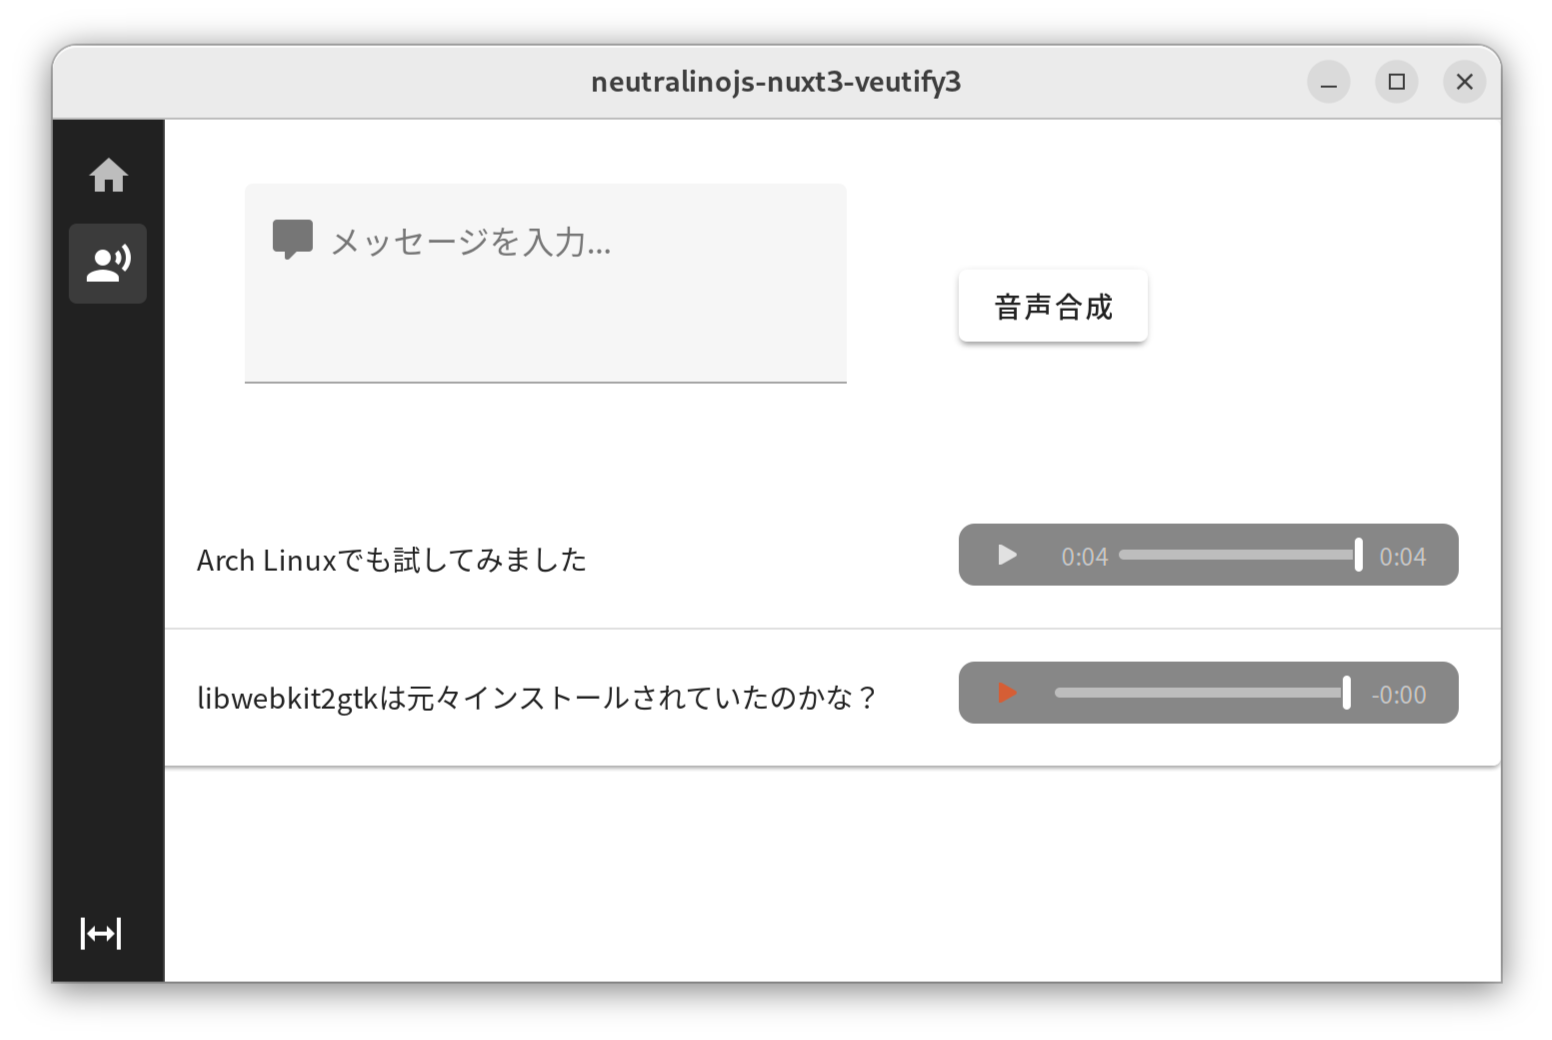
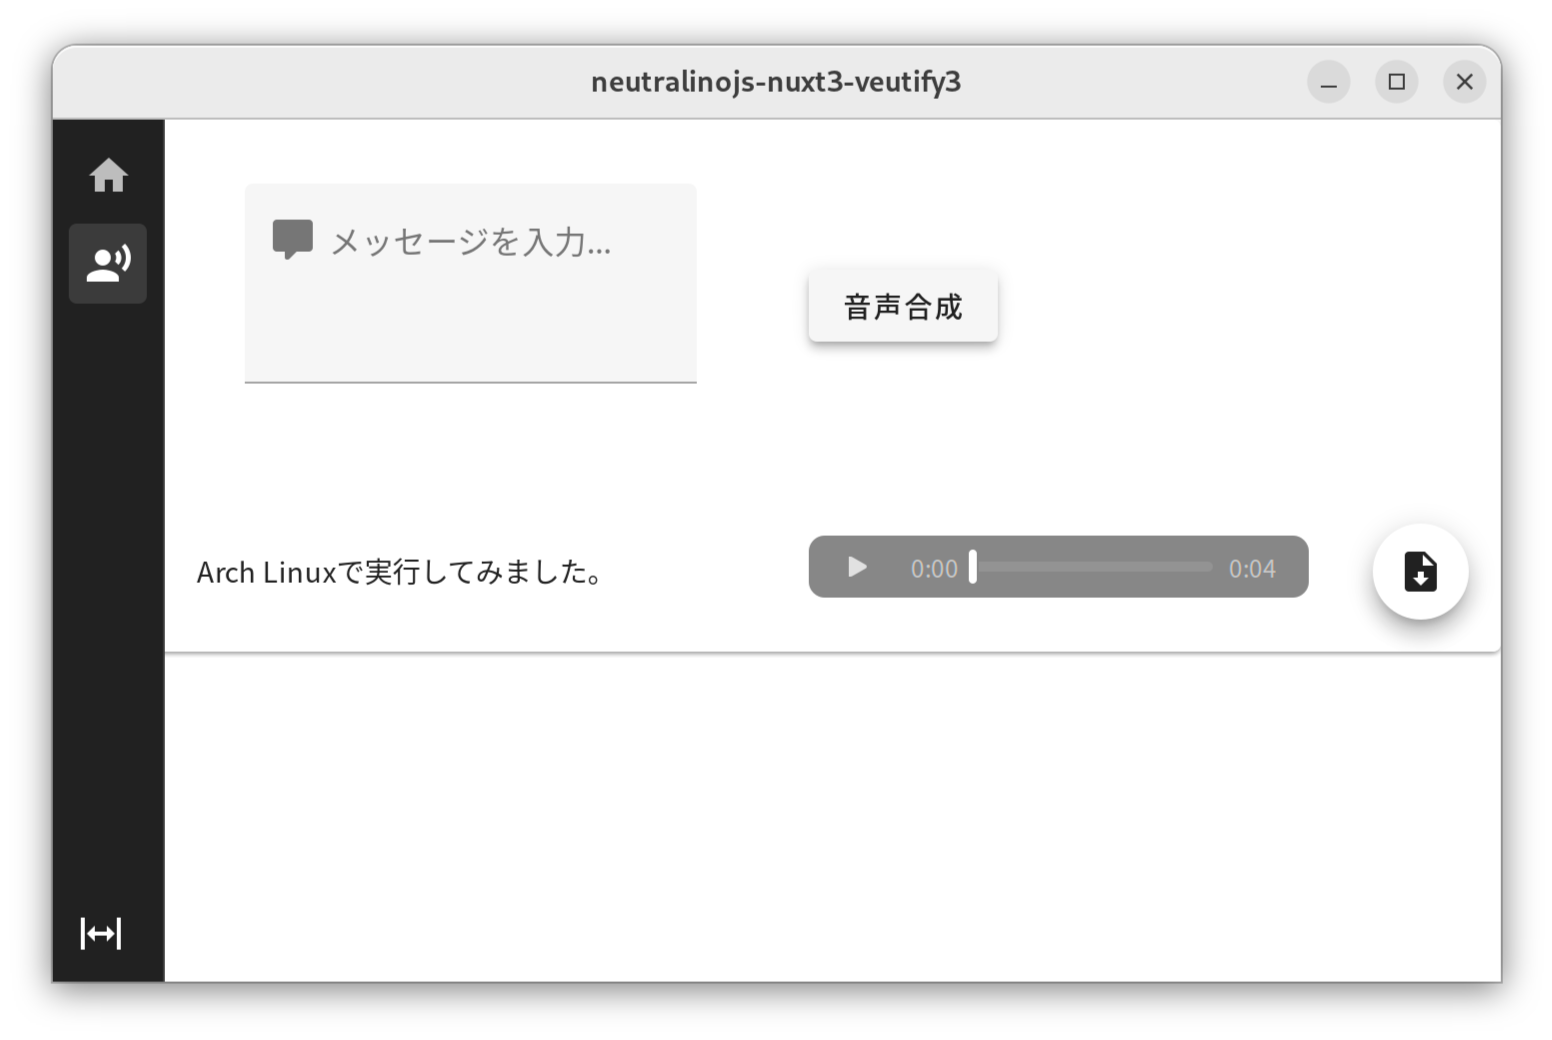
Hexo deploy

Changed region(s): [[0.1237, 0.4923, 0.9588, 0.7077], [0.5258, 0.2769, 0.7423, 0.3385], [0.1237, 0.5231, 0.3711, 0.5846]]

diff --git a/2024/01/02/Neutralinojs-VOICEVOX/index.html b/2024/01/02/Neutralinojs-VOICEVOX/index.html
@@ -184,7 +184,7 @@
 <li>Arch Linux</li>
 </ul>
 <h3 id="構築"><a href="#構築" class="headerlink" title="構築"></a>構築</h3><h4 id="プロジェクトフォルダ構成"><a href="#プロジェクトフォルダ構成" class="headerlink" title="プロジェクトフォルダ構成"></a>プロジェクトフォルダ構成</h4><ul>
-<li>フォルダ階層と主なファイル<figure class="highlight text"><table><tr><td class="code"><pre><span class="line">neutralinojs-nuxt3-veutify3/</span><br><span class="line">  bin/                      # Neutrianojsから提供される各OSのローダ</span><br><span class="line">  dist/                     # Neutrianojsプロジェクトのビルド結果</span><br><span class="line">  src/                      # Nuxt プロジェクト</span><br><span class="line">    components/</span><br><span class="line">      SideBar.vue           # アプリケーションのサイドバー</span><br><span class="line">    layouts/</span><br><span class="line">      default.vue</span><br><span class="line">    pages/</span><br><span class="line">      index.vue             # トップページ</span><br><span class="line">      voicevox.vue          # VOICEVOXのページ</span><br><span class="line">    plugins/</span><br><span class="line">      veutify.ts</span><br><span class="line">    nuxtconfig.ts           # Nuxt プロジェクトの設定</span><br><span class="line">  www/                      # resouceのままでよかったかも</span><br><span class="line">    appIcon.png</span><br><span class="line">  neutralinojs.config.json  # Neutralinojs プロジェクトの設定</span><br></pre></td></tr></table></figure></li>
+<li>フォルダ階層と主なファイル<figure class="highlight text"><table><tr><td class="code"><pre><span class="line">neutralinojs-nuxt3-veutify3/</span><br><span class="line">  bin/                      # Neutrianojsから提供される各OSのローダ</span><br><span class="line">  dist/                     # Neutrianojsプロジェクトのビルド結果</span><br><span class="line">  src/                      # Nuxt プロジェクト</span><br><span class="line">    components/</span><br><span class="line">      SideBar.vue           # アプリケーションのサイドバー</span><br><span class="line">    layouts/</span><br><span class="line">      default.vue</span><br><span class="line">    pages/</span><br><span class="line">      index.vue             # トップページ</span><br><span class="line">      voicevox.vue          # VOICEVOXのページ</span><br><span class="line">    plugins/</span><br><span class="line">      veutify.ts</span><br><span class="line">    nuxtconfig.ts           # Nuxt プロジェクトの設定</span><br><span class="line">  www/                      # resources のままでよかったかも</span><br><span class="line">    appIcon.png</span><br><span class="line">  neutralinojs.config.json  # Neutralinojs プロジェクトの設定</span><br></pre></td></tr></table></figure></li>
 </ul>
 <h4 id="Neutralinojs"><a href="#Neutralinojs" class="headerlink" title="Neutralinojs"></a>Neutralinojs</h4><ul>
 <li>Neutralinojs インストール<figure class="highlight bash"><table><tr><td class="code"><pre><span class="line">npm install -g @neutralinojs/neu</span><br></pre></td></tr></table></figure></li>
@@ -203,7 +203,8 @@
 </ul>
 <h3 id="ビルド"><a href="#ビルド" class="headerlink" title="ビルド"></a>ビルド</h3><h4 id="注意事項"><a href="#注意事項" class="headerlink" title="注意事項"></a>注意事項</h4><ul>
 <li>Windows 環境でビルドする場合は以下を対策する (2022-07-12の記事)<br><a href="https://ktkr3d.github.io/2022/07/12/Neutralinojs-Nuxt3/#Windows-%E7%92%B0%E5%A2%83%E3%81%A7%E3%81%AEneu-build-%E5%A4%B1%E6%95%97%E5%AF%BE%E7%AD%96">https://ktkr3d.github.io/2022/07/12/Neutralinojs-Nuxt3/#Windows-環境でのneu-build-失敗対策</a></li>
-<li>アプリケーションクローズボタンを押してもクローズしない<br><a target="_blank" rel="external nofollow noopener noreferrer" href="https://github.com/neutralinojs/neutralinojs/issues/618">https://github.com/neutralinojs/neutralinojs/issues/618</a><br>アプリケーションが終了するまで数秒待つ必要があります。</li>
+<li>Windows 環境でクローズボタンを押してもすぐに終了しない<br><a target="_blank" rel="external nofollow noopener noreferrer" href="https://github.com/neutralinojs/neutralinojs/issues/618">https://github.com/neutralinojs/neutralinojs/issues/618</a><br>アプリケーションが終了するまで10秒くらい待つ必要があります。</li>
+<li>Linux環境でダウンロードボタンが機能しない。後で調べる。</li>
 </ul>
 <h4 id="ビルド手順"><a href="#ビルド手順" class="headerlink" title="ビルド手順"></a>ビルド手順</h4><ul>
 <li>コマンド<figure class="highlight plaintext"><table><tr><td class="code"><pre><span class="line">cd neutralinojs-nuxt3-veutify3</span><br><span class="line">cd src; npm run generate; cd ..; neu build; neu update</span><br></pre></td></tr></table></figure></li>
@@ -214,13 +215,14 @@
 <li><code>resources.neu</code>ファイルがプログラム。Veutifyを使う前は1MB未満で、Veutifyを使うほどサイズが大きくなった。</li>
 </ul>
 <h3 id="実行の準備"><a href="#実行の準備" class="headerlink" title="実行の準備"></a>実行の準備</h3><h4 id="Windowsの場合"><a href="#Windowsの場合" class="headerlink" title="Windowsの場合"></a>Windowsの場合</h4><ul>
-<li>管理者モードのコマンドプロンプトで以下を実行<br><a target="_blank" rel="external nofollow noopener noreferrer" href="https://github.com/neutralinojs/v2-specification/blob/main/webview.md">https://github.com/neutralinojs/v2-specification/blob/main/webview.md</a><figure class="highlight plaintext"><table><tr><td class="code"><pre><span class="line">CheckNetIsolation.exe LoopbackExempt -a -n=&quot;Microsoft.Win32WebViewHost_cw5n1h2txyewy&quot;</span><br></pre></td></tr></table></figure></li>
+<li>管理者モードのコマンドプロンプトで以下を実行しておく<br><a target="_blank" rel="external nofollow noopener noreferrer" href="https://github.com/neutralinojs/v2-specification/blob/main/webview.md">https://github.com/neutralinojs/v2-specification/blob/main/webview.md</a><figure class="highlight plaintext"><table><tr><td class="code"><pre><span class="line">CheckNetIsolation.exe LoopbackExempt -a -n=&quot;Microsoft.Win32WebViewHost_cw5n1h2txyewy&quot;</span><br></pre></td></tr></table></figure></li>
+<li>VOICEVOXを起動しておく</li>
 <li>実行<figure class="highlight plaintext"><table><tr><td class="code"><pre><span class="line">neutralinojs-nuxt3-veutify3-win_x64.exe</span><br></pre></td></tr></table></figure>
 <img src="/images/neutrianojs_voicevox.png"></li>
 </ul>
 <h4 id="Ubuntuの場合"><a href="#Ubuntuの場合" class="headerlink" title="Ubuntuの場合"></a>Ubuntuの場合</h4><ul>
 <li>docker版VOICEVOXを実行<br><a target="_blank" rel="external nofollow noopener noreferrer" href="https://hub.docker.com/r/voicevox/voicevox_engine">https://hub.docker.com/r/voicevox/voicevox_engine</a></li>
-<li>libweblit2gtk-4.0.37<figure class="highlight plaintext"><table><tr><td class="code"><pre><span class="line">sudo apt install libwebkit2gtk-4.0-37</span><br></pre></td></tr></table></figure></li>
+<li>ライブラリ<figure class="highlight plaintext"><table><tr><td class="code"><pre><span class="line">sudo apt install libwebkit2gtk-4.0-37</span><br><span class="line">sudo apt install gstreamer1.0-plugins-bad</span><br></pre></td></tr></table></figure></li>
 <li>実行権限付与</li>
 <li>実行<figure class="highlight plaintext"><table><tr><td class="code"><pre><span class="line">./neutralinojs-nuxt3-veutify3-linux_x64</span><br></pre></td></tr></table></figure>
 <img src="/images/neutralinojs_voicevox_ubuntu.png"></li>
